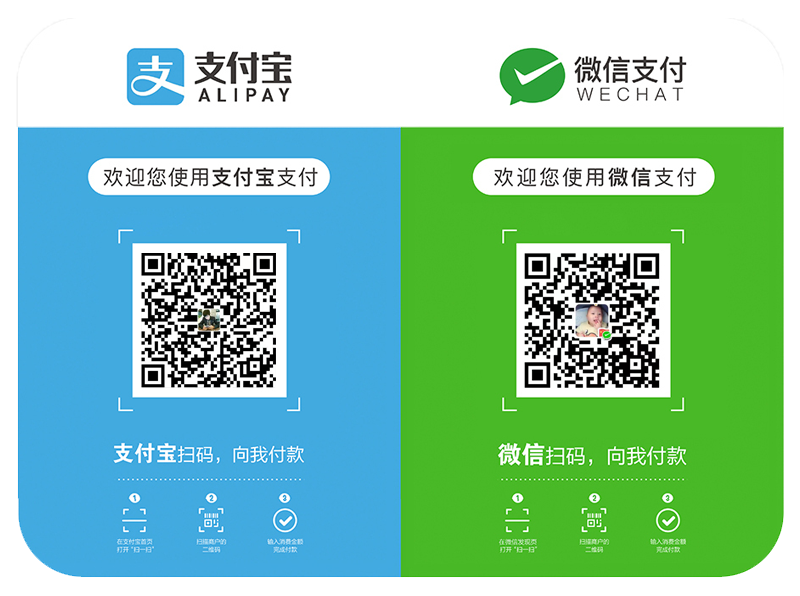
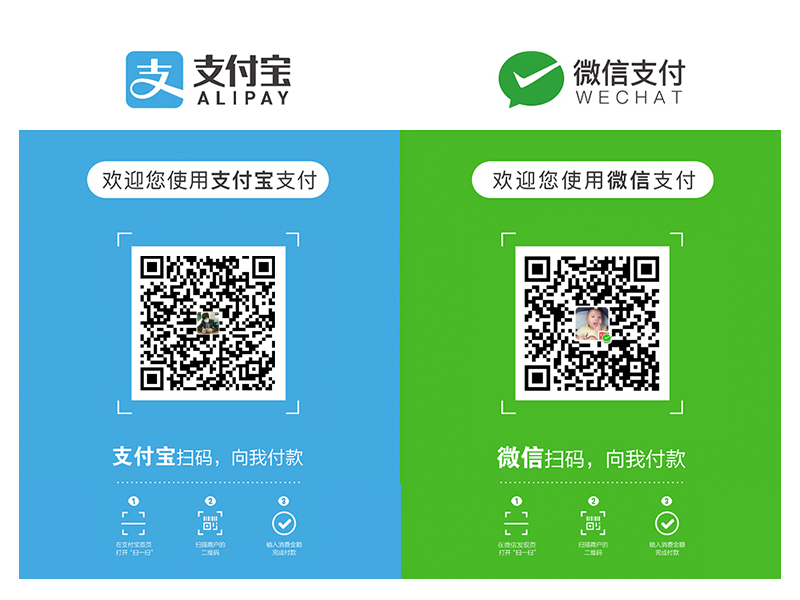
处理打赏二维码

diff --git a/assets/css/main.css b/assets/css/main.css
@@ -729,5 +729,5 @@ Buttons
 .btn-plus-nice{}
 
 .qr_pay{background: url(../images/qr_pay.png?v=1) no-repeat;height:580px;}
-.qr_pay .qr_pay_wechatpay{width: 140px;height:140px;position: relative;top: 250px;left: 140px;}
-.qr_pay .qr_pay_alipay{width: 140px;height:140px;position: relative;top: 250px;left: 377px;}
+.qr_pay .qr_pay_wechatpay{width: 140px;height:140px;position: relative;top: 253px;left: 138px;}
+.qr_pay .qr_pay_alipay{width: 140px;height:140px;position: relative;top: 253px;left: 375px;}
